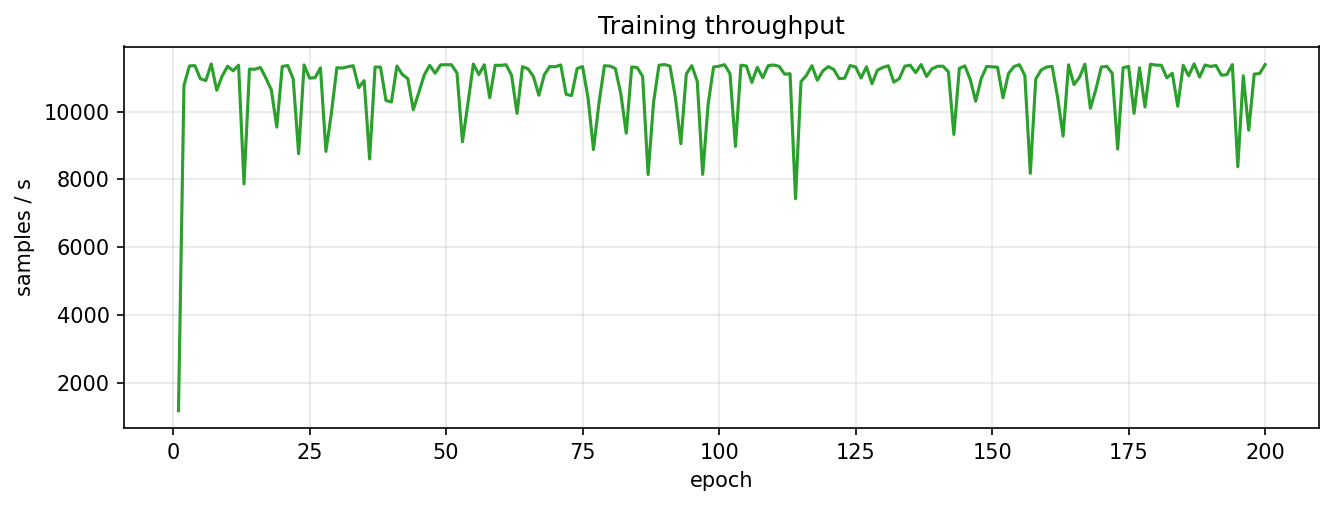
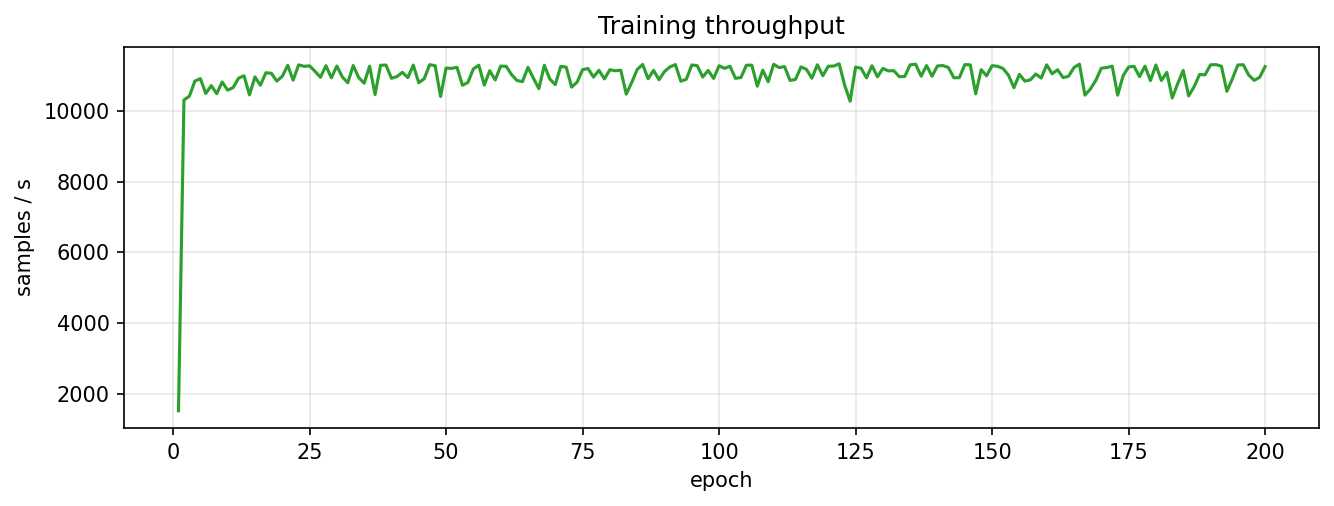
docs: rebuild the CIFAR-10 guide page from the run with data wait
The page's outputs and figures come from a full A100 run of the
current script: median test error over the last 10 epochs 4.09%
(published 4.24%) with MixUp, 5.71% (published 5.53%) without; data
wait 1.12 ms of a 10.92 ms step; each step compiled once per batch
shape. The results table adds the earlier pair of runs, which shows
the run-to-run spread on the GPU.

diff --git a/docs/examples/advanced/training/e2e-cifar10-guide.md b/docs/examples/advanced/training/e2e-cifar10-guide.md
@@ -48,8 +48,8 @@ python examples/advanced/training/01_e2e_cifar10_guide.py
 
 The code below is the script as committed, with `QUICK_MODE = True`. The outputs and figures
 come from one full run with `QUICK_MODE = False`, the only line changed, on one NVIDIA
-A100-SXM4-80GB with jax 0.11.1 and flax 0.12.9. The 200 epochs took 20 minutes. A second
-full run that also set `USE_MIXUP = False` gives the ERM row of the results table.
+A100-SXM4-80GB with jax 0.11.1 and flax 0.12.9. The 200 epochs took about 18 minutes. A
+second full run that also set `USE_MIXUP = False` gives the ERM rows of the results table.
 
 ## Setup
 
@@ -74,6 +74,7 @@ import numpy as np
 import optax
 from flax import nnx
 from substrax.artifacts import resolve_output_dir
+from substrax.testing.compiles import compiled_programs
 
 from datarax.core.config import BatchMixOperatorConfig
 from datarax.core.element_batch import Batch
@@ -353,8 +354,7 @@ and 150 as the reference steps it; optax counts steps, so the boundaries are tho
 
 The MixUp loss is the reference's `mixup_criterion`: lambda times the cross-entropy against each
 record's label plus (1 - lambda) times the cross-entropy against its partner's. Training accuracy
-weighs the two the same way. Both are summed on the device and read once an epoch, so the loop
-never waits for the device mid-epoch.
+weighs the two the same way. Both are summed on the device and read once an epoch.
 
 ```python
 def learning_rate_schedule() -> optax.Schedule:
@@ -444,20 +444,39 @@ whole test set in eval mode, as the reference does every epoch. The script check
 epoch that each training record was served once and that evaluation left batch norm's running
 statistics unchanged. The log prints the first epoch, every 20th and the last 10.
 
+The loop keeps one step in flight: after dispatching a step it waits for the step before, so the
+device runs one step while the pipeline serves the next batch. The time the loop spends waiting
+for the pipeline is the data wait. Each epoch line prints its median per step beside the median
+step time; while the wait stays well below the step, the data path keeps the device busy. The
+script also counts what jax compiles during training: each step function once per batch shape,
+which for the full run is the 128-record batch and the 80-record last one, and one test shape.
+
 ```python
-history = {"train_loss": [], "train_acc": [], "test_loss": [], "test_acc": [], "samples_s": []}
+history = {
+    "train_loss": [], "train_acc": [], "test_loss": [], "test_acc": [], "samples_s": [],
+    "data_wait_ms": [], "step_ms": [],
+}  # fmt: skip
 predictions = test_labels = np.zeros(0, np.int64)
-with closing(train_pipeline), closing(test_pipeline):
+with closing(train_pipeline), closing(test_pipeline), compiled_programs() as compiled:
     for epoch in range(EPOCHS):
         if epoch:
             train_pipeline.reset()
         model.train()
         loss_sum, correct_sum, records = jnp.zeros(()), jnp.zeros(()), 0
-        begin = time.perf_counter()
+        waits, steps, in_flight = [], [], None
+        begin = mark = time.perf_counter()
         for batch in train_pipeline:
+            served = time.perf_counter()
             batch_loss, batch_correct = train_step(model, optimizer, batch)
+            if in_flight is not None:
+                jax.block_until_ready(in_flight)
+            in_flight = batch_loss
             loss_sum, correct_sum = loss_sum + batch_loss, correct_sum + batch_correct
             records += batch["label"].shape[0]
+            now = time.perf_counter()
+            waits.append(served - mark)
+            steps.append(now - mark)
+            mark = now
         train_loss, train_acc = float(loss_sum) / records, 100.0 * float(correct_sum) / records
         seconds = time.perf_counter() - begin
         assert records == TRAIN_RECORDS, "every training record is served once an epoch"
@@ -467,40 +486,56 @@ with closing(train_pipeline), closing(test_pipeline):
             np.array_equal, trained, jax.device_get(nnx.state(model, nnx.BatchStat))
         )
         assert all(jax.tree.leaves(unchanged)), "evaluation leaves batch norm's statistics alone"
-        values = (train_loss, train_acc, test_loss, test_acc, records / seconds)
+        data_wait_ms = 1e3 * statistics.median(waits)
+        step_ms = 1e3 * statistics.median(steps)
+        values = (
+            train_loss, train_acc, test_loss, test_acc, records / seconds, data_wait_ms, step_ms
+        )  # fmt: skip
         for key, value in zip(history, values, strict=True):
             history[key].append(value)
         if epoch == 0 or (epoch + 1) % 20 == 0 or epoch >= EPOCHS - 10:
             print(
                 f"epoch {epoch + 1:3d}: train loss {train_loss:.4f}  train acc {train_acc:6.2f}%  "
                 f"test loss {test_loss:.4f}  test acc {test_acc:6.2f}%  "
-                f"({records / seconds:,.0f} samples/s)"
+                f"({records / seconds:,.0f} samples/s; data wait {data_wait_ms:.2f} ms "
+                f"of a {step_ms:.2f} ms step)"
             )
+
+# Each step function compiles once per batch shape it sees, and never again.
+train_shapes = len({BATCH_SIZE, LAST_BATCH})
+test_shapes = len({TEST_BATCH_SIZE, TEST_RECORDS % TEST_BATCH_SIZE or TEST_BATCH_SIZE})
+compiles = {name: compiled.count(f"jit({name})") for name in ("train_step", "eval_step")}
+assert compiles == {"train_step": train_shapes, "eval_step": test_shapes}, compiles
+print(
+    f"compiled during training: train_step {compiles['train_step']}x, "
+    f"eval_step {compiles['eval_step']}x (once per batch shape)"
+)
 ```
 
 **Terminal Output:**
 
 ```text
-epoch   1: train loss 2.0590  train acc  24.96%  test loss 1.7210  test acc  38.79%  (1,178 samples/s)
-epoch  20: train loss 1.1073  train acc  67.41%  test loss 0.5277  test acc  87.90%  (11,333 samples/s)
-epoch  40: train loss 0.9932  train acc  70.33%  test loss 0.5069  test acc  88.48%  (10,285 samples/s)
-epoch  60: train loss 1.0043  train acc  69.48%  test loss 0.4704  test acc  86.79%  (11,365 samples/s)
-epoch  80: train loss 0.9620  train acc  71.01%  test loss 0.4138  test acc  91.45%  (11,345 samples/s)
-epoch 100: train loss 0.9259  train acc  72.14%  test loss 0.3658  test acc  90.41%  (11,340 samples/s)
-epoch 120: train loss 0.7678  train acc  75.66%  test loss 0.2966  test acc  95.09%  (11,328 samples/s)
-epoch 140: train loss 0.7879  train acc  74.38%  test loss 0.2661  test acc  95.34%  (11,337 samples/s)
-epoch 160: train loss 0.7782  train acc  74.74%  test loss 0.2781  test acc  95.68%  (11,318 samples/s)
-epoch 180: train loss 0.7474  train acc  75.47%  test loss 0.2550  test acc  95.82%  (11,373 samples/s)
-epoch 191: train loss 0.7122  train acc  76.74%  test loss 0.2534  test acc  95.69%  (11,362 samples/s)
-epoch 192: train loss 0.7161  train acc  76.67%  test loss 0.2739  test acc  95.56%  (11,075 samples/s)
-epoch 193: train loss 0.7525  train acc  75.00%  test loss 0.2416  test acc  95.73%  (11,093 samples/s)
-epoch 194: train loss 0.7284  train acc  75.93%  test loss 0.2485  test acc  95.64%  (11,388 samples/s)
-epoch 195: train loss 0.7291  train acc  76.27%  test loss 0.2374  test acc  95.87%  (8,377 samples/s)
-epoch 196: train loss 0.7946  train acc  72.89%  test loss 0.2295  test acc  95.83%  (11,057 samples/s)
-epoch 197: train loss 0.7551  train acc  74.93%  test loss 0.2496  test acc  95.72%  (9,452 samples/s)
-epoch 198: train loss 0.7570  train acc  74.62%  test loss 0.2634  test acc  95.61%  (11,107 samples/s)
-epoch 199: train loss 0.7311  train acc  76.08%  test loss 0.2773  test acc  95.65%  (11,125 samples/s)
-epoch 200: train loss 0.7145  train acc  76.63%  test loss 0.2449  test acc  95.86%  (11,388 samples/s)
+epoch   1: train loss 2.0570  train acc  25.37%  test loss 1.8455  test acc  37.64%  (1,520 samples/s; data wait 1.00 ms of a 10.92 ms step)
+epoch  20: train loss 1.1031  train acc  67.63%  test loss 0.5059  test acc  88.72%  (10,987 samples/s; data wait 1.03 ms of a 10.91 ms step)
+epoch  40: train loss 0.9910  train acc  70.36%  test loss 0.5325  test acc  88.45%  (10,932 samples/s; data wait 1.18 ms of a 10.92 ms step)
+epoch  60: train loss 0.9994  train acc  69.51%  test loss 0.4583  test acc  87.59%  (11,277 samples/s; data wait 1.15 ms of a 10.92 ms step)
+epoch  80: train loss 0.9606  train acc  71.04%  test loss 0.4317  test acc  91.14%  (11,175 samples/s; data wait 1.13 ms of a 10.92 ms step)
+epoch 100: train loss 0.9241  train acc  72.17%  test loss 0.3524  test acc  91.18%  (11,287 samples/s; data wait 1.08 ms of a 10.91 ms step)
+epoch 120: train loss 0.7671  train acc  75.69%  test loss 0.2973  test acc  95.31%  (11,274 samples/s; data wait 1.10 ms of a 10.92 ms step)
+epoch 140: train loss 0.7882  train acc  74.28%  test loss 0.2697  test acc  95.44%  (11,282 samples/s; data wait 1.21 ms of a 10.93 ms step)
+epoch 160: train loss 0.7781  train acc  74.75%  test loss 0.2761  test acc  95.82%  (11,312 samples/s; data wait 1.16 ms of a 10.91 ms step)
+epoch 180: train loss 0.7466  train acc  75.34%  test loss 0.2503  test acc  95.90%  (11,308 samples/s; data wait 1.15 ms of a 10.91 ms step)
+epoch 191: train loss 0.7121  train acc  76.76%  test loss 0.2498  test acc  96.06%  (11,319 samples/s; data wait 1.08 ms of a 10.93 ms step)
+epoch 192: train loss 0.7148  train acc  76.66%  test loss 0.2697  test acc  95.84%  (11,274 samples/s; data wait 1.16 ms of a 10.92 ms step)
+epoch 193: train loss 0.7495  train acc  74.99%  test loss 0.2348  test acc  95.95%  (10,563 samples/s; data wait 1.11 ms of a 10.93 ms step)
+epoch 194: train loss 0.7302  train acc  75.96%  test loss 0.2454  test acc  95.87%  (10,914 samples/s; data wait 1.09 ms of a 10.92 ms step)
+epoch 195: train loss 0.7300  train acc  76.28%  test loss 0.2317  test acc  96.03%  (11,308 samples/s; data wait 1.16 ms of a 10.92 ms step)
+epoch 196: train loss 0.7929  train acc  72.97%  test loss 0.2271  test acc  95.93%  (11,317 samples/s; data wait 1.18 ms of a 10.92 ms step)
+epoch 197: train loss 0.7553  train acc  74.99%  test loss 0.2486  test acc  95.90%  (11,024 samples/s; data wait 1.07 ms of a 10.89 ms step)
+epoch 198: train loss 0.7564  train acc  74.63%  test loss 0.2587  test acc  95.74%  (10,874 samples/s; data wait 1.17 ms of a 10.93 ms step)
+epoch 199: train loss 0.7296  train acc  76.11%  test loss 0.2696  test acc  95.84%  (10,960 samples/s; data wait 1.04 ms of a 10.92 ms step)
+epoch 200: train loss 0.7139  train acc  76.65%  test loss 0.2419  test acc  95.91%  (11,264 samples/s; data wait 1.12 ms of a 10.92 ms step)
+compiled during training: train_step 2x, eval_step 1x (once per batch shape)
 ```
 
 ## Results
@@ -521,18 +556,22 @@ print(f"published (mixup-cifar10, Table 5, median of the last 10): {published:.2
 **Terminal Output:**
 
 ```text
-test error, median of the last 10 epochs: 4.30%
-test error, final epoch: 4.14%   best epoch: 4.11%
+test error, median of the last 10 epochs: 4.09%
+test error, final epoch: 4.09%   best epoch: 3.88%
 published (mixup-cifar10, Table 5, median of the last 10): 4.24%
 ```
 
 | run | median test error, last 10 epochs | final epoch | best epoch | published (Table 5) |
 |---|---|---|---|---|
-| MixUp, alpha 1 (this page) | 4.30% | 4.14% | 4.11% | 4.24% |
-| ERM (`USE_MIXUP = False`) | 5.35% | 5.25% | 5.25% | 5.53% |
+| MixUp, alpha 1 (outputs on this page) | 4.09% | 4.09% | 3.88% | 4.24% |
+| MixUp, alpha 1, second run | 4.30% | 4.14% | 4.11% | 4.24% |
+| ERM (`USE_MIXUP = False`) | 5.71% | 5.57% | 5.54% | 5.53% |
+| ERM, second run | 5.35% | 5.25% | 5.25% | 5.53% |
 
-Both runs land within 0.2 points of the paper's medians. MixUp lowers the error by 1.05
-points here and by 1.29 in the paper.
+The second run of each repeats the same training with the same seeds; on the GPU the
+results differ from run to run, by 0.21 points for MixUp and 0.36 for
+ERM here. Every run lands within 0.2 points of the paper's median. MixUp lowers the
+median error by 1.62 and 1.05 points in the two pairs, and by 1.29 in the paper.
 
 ### Training curves
 
@@ -610,16 +649,16 @@ for name, accuracy in zip(CLASSES, per_class, strict=True):
 ```text
 Saved: docs/assets/images/examples/e2e-confusion-matrix.png
 Saved: docs/assets/images/examples/e2e-per-class-accuracy.png
-    airplane:  96.70%
-  automobile:  98.60%
-        bird:  95.40%
-         cat:  91.70%
-        deer:  95.30%
+    airplane:  96.90%
+  automobile:  98.40%
+        bird:  94.70%
+         cat:  91.50%
+        deer:  95.70%
          dog:  92.50%
-        frog:  96.90%
-       horse:  97.70%
+        frog:  97.60%
+       horse:  97.50%
         ship:  97.30%
-       truck:  96.50%
+       truck:  97.00%
 ```
 
 ![Test confusion matrix](../../../assets/images/examples/e2e-confusion-matrix.png)
@@ -629,7 +668,8 @@ Saved: docs/assets/images/examples/e2e-per-class-accuracy.png
 ### Throughput
 
 Training samples per second in each epoch, the data path and the train step together. The
-first epoch includes compilation.
+first epoch includes compilation. Below the figure, the medians over the epochs after the
+first: throughput, and the data wait beside the step time.
 
 ```python
 figure, axis = plt.subplots(figsize=(9, 3.5))
@@ -642,13 +682,20 @@ plt.close()
 print(f"Saved: {output_dir / 'e2e-throughput-during-training.png'}")
 steady = history["samples_s"][1:] or history["samples_s"]
 print(f"median training throughput after the first epoch: {statistics.median(steady):,.0f} /s")
+steady_wait = history["data_wait_ms"][1:] or history["data_wait_ms"]
+steady_step = history["step_ms"][1:] or history["step_ms"]
+print(
+    f"median data wait after the first epoch: {statistics.median(steady_wait):.2f} ms "
+    f"of a {statistics.median(steady_step):.2f} ms step"
+)
 ```
 
 **Terminal Output:**
 
 ```text
 Saved: docs/assets/images/examples/e2e-throughput-during-training.png
-median training throughput after the first epoch: 11,139 /s
+median training throughput after the first epoch: 11,041 /s
+median data wait after the first epoch: 1.12 ms of a 10.92 ms step
 ```
 
 ![Training throughput by epoch](../../../assets/images/examples/e2e-throughput-during-training.png)
